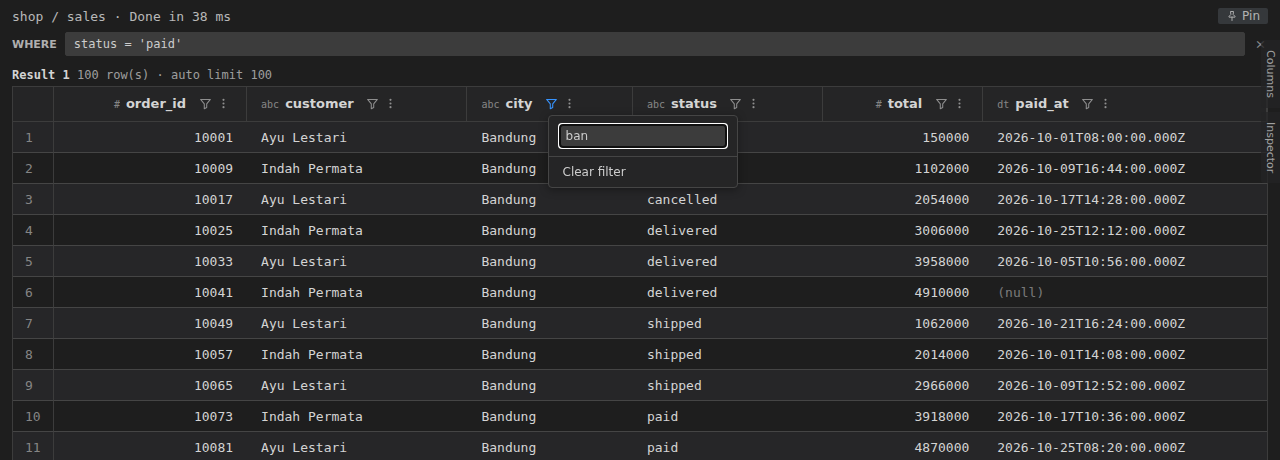
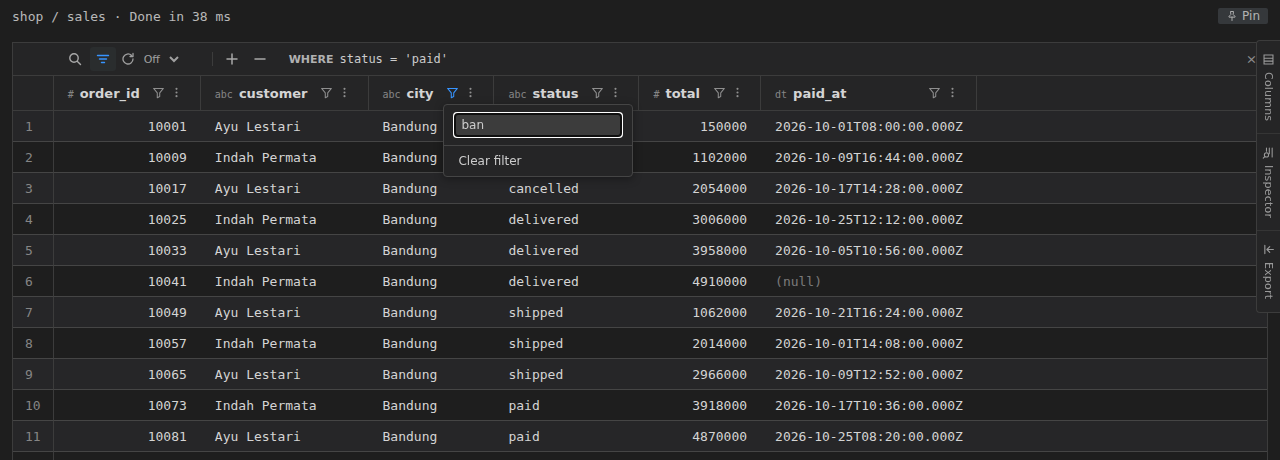
docs: update the README for 1.3.4 with the new result panel screenshots

diff --git a/scripts/screenshots.js b/scripts/screenshots.js
@@ -107,7 +107,7 @@ const PLAN_XML = `<ShowPlanXML><BatchSequence><Batch><Statements>
 
     // 3. export / copy
     p = await page(render('csp', 'shop / sales', { result: result([ordersSet]), source: { uri: 'file:///orders.sql', sql: SQL } }), { h: 760 });
-    await p.click('.xbtn');
+    await p.click('.sidetabs button[data-pane="exp"]');
     await shot(p, 'export.png');
 
     // 4. beberapa SELECT paralel, satu masih berjalan

diff --git a/README.id.md b/README.id.md
@@ -4,7 +4,7 @@
 
 Database client untuk VS Code: SQL Server, MySQL / MariaDB, PostgreSQL, SQLite dan MongoDB, plus Consul (KV store dan dashboard cluster). Tulis query di file `.sql`, jalankan dengan shortcut atau CodeLens, lalu lihat, filter, edit dan export hasilnya di grid.
 
-![Grid hasil dengan tag tipe kolom, baris terpilih, toolbar WHERE dan Load more](images/screenshots/results.png)
+![Grid hasil dengan toolbar ikon, tag tipe kolom, baris terpilih dan rail Columns / Inspector / Export](images/screenshots/results.png)
 
 ## Fitur
 
@@ -29,8 +29,11 @@ Database client untuk VS Code: SQL Server, MySQL / MariaDB, PostgreSQL, SQLite d
 - **Auto limit** untuk satu SELECT, lalu **Load more (+1000)** sampai 50.000 baris di grid.
 - **Mode transaksi manual** per file dengan lens **Commit** / **Rollback**; di SQL Server, MySQL / MariaDB dan PostgreSQL statusnya dibaca dari server dan `COMMIT` / `ROLLBACK` boleh ada di dalam script.
 - **Konfirmasi Auto-commit**: statement yang mengubah data di mode Auto-commit minta konfirmasi dulu (aktif secara default; bisa dimatikan per group atau koneksi).
-- **Grid hasil**: tag tipe kolom, toolbar WHERE yang menjalankan ulang query di server, filter / sort / hide per kolom pada baris yang sudah dimuat, urutan kolom bisa diubah, panel samping **Columns** / **Inspector**, pilih baris lalu Ctrl+C (tersalin sebagai TSV); hanya baris di sekitar area tampil yang digambar, jadi hasil besar tetap cepat. Hasil UPDATE / INSERT / DELETE menampilkan `n row(s) affected` di bawah judul **Statement n**, juga di samping hasil SELECT.
-- **Export** semua data atau baris terpilih ke CSV, TSV, JSON, JSON (pretty), Markdown, HTML atau Excel (.xlsx), atau salin ke clipboard.
+- **Grid hasil**: satu toolbar ikon per hasil (search, WHERE, Add row, Delete rows, Save, Generate script, Discard), tag tipe kolom, filter / sort / hide per kolom pada baris yang sudah dimuat, urutan kolom bisa diubah, navigasi keyboard (panah, Shift+panah, Esc membuang perubahan), dan panel samping **Columns** / **Inspector** / **Export** di rail kanan dengan pemilih hasil. Beberapa query dalam satu run mendapat section **Query** yang bisa dilipat (**Collapse all**). Hanya baris di sekitar area tampil yang digambar, jadi hasil besar tetap cepat. Hasil UPDATE / INSERT / DELETE menampilkan `n row(s) affected` di bawah judul **Statement n**, juga di samping hasil SELECT.
+- **Load all**: baca hasil sampai jutaan baris ke cache di disk (bukan memori); grid berpindah halaman dengan search, filter kolom, sort dan export dari cache.
+- **Popup nilai cell**: hover (atau double-click) cell untuk melihat nilai lengkap, JSON di-pretty-print, dengan **Copy value**. Ctrl+C menyalin baris terpilih (format: `moonageDaydream.grid.copyFormat`); klik judul kolom lalu Ctrl+C menyalin kolom itu sebagai array JSON.
+- **Auto refresh** untuk satu SELECT: Off, 5s, 10s, 30s, 1m atau 5m, dengan hitung mundur dan nomor refresh; senyap (tanpa entri History, kursor tetap di editor).
+- **Export** semua data atau baris terpilih ke CSV, TSV, JSON, JSON (pretty), Array of values, Markdown, HTML atau Excel (.xlsx), atau salin ke clipboard.
 - **Pin results** supaya hasil tetap di tab sendiri, berdampingan.
 - **Edit cell**: perubahan menghasilkan script UPDATE berdasarkan primary key di tab baru. Script tidak pernah dijalankan otomatis.
 - **Execution plan**: plan grafis dengan bar cost untuk SQL Server; output `EXPLAIN` sebagai grid untuk database lain.
@@ -40,21 +43,31 @@ Database client untuk VS Code: SQL Server, MySQL / MariaDB, PostgreSQL, SQLite d
 
 ## Yang Baru
 
+**1.3.4**
+
+- Diperbaiki: **Format SQL** tidak lagi merusak daftar `IN (...)` multi-baris (atau daftar SELECT panjang) saat leading comma aktif; tiap baris tetap punya komanya sendiri.
+
+**1.3.3**
+
+- Baru: tombol **Select** di baris CodeLens setiap statement memblok seluruh statement sampai `;` (double-click kembali memilih satu kata).
+- Baru: **seleksi kolom** di grid hasil: klik judul kolom untuk memilih kolom, Ctrl+C menyalin nilainya sebagai array JSON (juga **Copy column as array** di menu kolom dan format export **Array of values**).
+
+**1.3.1 - 1.3.2**
+
+- Baru: **Auto refresh** untuk satu SELECT (Off, 5s, 10s, 30s, 1m, 5m) dengan hitung mundur dan nomor refresh; senyap, tanpa entri History.
+- Diperbaiki: hasil tunggal mengisi tinggi panel.
+
+**1.3.0**
+
+- Baru: satu **toolbar ikon** per hasil (search, WHERE, Add row, Delete rows, Save, Generate script, Discard); section **Query** yang bisa dilipat dengan **Collapse all**; navigasi keyboard di grid (panah, Shift+panah, Esc membuang perubahan); panel **Columns / Inspector / Export** di rail kanan dengan pemilih hasil; panel hasil kosong dengan kartu pintasan.
+
+**1.2.1 - 1.2.6**
+
+- Baru: **Load all** untuk hasil jutaan baris (cache di disk dengan search, filter kolom, sort, paging dan export dari cache); **popup nilai cell** (hover atau double-click, JSON di-pretty-print, **Copy value**); indikator loading di webview; **Copy as script / JSON** dan **Open Table Columns** dari file SQL.
+
 **1.2.0**
 
-- Baru:
-  - **Find Object** (Ctrl+Alt+O): cari koneksi, database, table, view dan procedure dari semua koneksi lewat cache metadata lokal; **Update Metadata** dan **Clear Cache** di Command Palette.
-  - **Filter in Connections** (Ctrl+Alt+F): ikon corong pada koneksi, database atau folder hanya menampilkan nama yang cocok.
-  - **Open view**: semua tab SQL yang terbuka, tersimpan maupun belum, dengan Save All, Close All, pin dan urutan drag & drop.
-  - **SQL syntax check**: SELECT / INSERT / UPDATE / DELETE / WITH dicek offline dengan dialect koneksi (`moonageDaydream.lint.syntax`).
-  - **Running queries and history in the status bar**: quick pick untuk cancel, buka lagi, jalankan lagi atau salin; popup dengan Cancel selama query berjalan.
-  - **Group environment icons**: Production, UAT, Development dan Local Development, ditebak dari nama atau diatur lewat klik kanan.
-- Ditingkatkan:
-  - **Connection rows**: logo dengan titik berdenyut saat terhubung, jumlah koneksi terhubung per group, tooltip lebih lengkap, loading bar saat expand koneksi yang belum terhubung.
-  - **One preview tab**: klik tabel dan entri history memakai ulang satu tab SQL sampai tab itu diedit.
-  - **Faster large results**: grid hanya menggambar baris di sekitar area tampil.
-- Diperbaiki:
-  - **Slow or failed connections**: tidak lagi membekukan isi Connections lainnya atau tampil sebagai terhubung.
+- Baru: **Find Object**, **Filter in Connections**, **Open view**, cek sintaks SQL, query berjalan dan **History** di status bar, ikon environment group; baris koneksi didesain ulang; hasil besar lebih cepat.
 
 Sebelumnya: **1.1.0** notifikasi setelah Add Data / simpan grid; **1.0.0** UNIQUE / FOREIGN KEY multi-kolom, koneksi MongoDB replica set, Show Log pada error, export streaming, perbaikan `GO`.
 
@@ -164,6 +177,7 @@ Expand koneksi untuk melihat database, table, view, procedure dan kolom (koneksi
 Buka atau buat file `.sql`. CodeLens di atas setiap statement menampilkan **Execute**, **Explain**, **Analyze** (untuk SELECT), lalu koneksi, database dan mode transaksi file itu; klik koneksi atau database untuk menggantinya. Lalu:
 
 - **Ctrl+Alt+Enter** menjalankan selection, atau statement di posisi kursor. **Ctrl+Enter** melakukan hal yang sama bila extension DBCode tidak terpasang.
+- **Select** di baris CodeLens memblok seluruh statement (sampai `;`) di editor.
 - **Execute** pada lens menjalankan statement itu.
 - Saat query berjalan, muncul lens **Cancel**; query di-cancel di server. Query yang berjalan lebih dari 0,3 detik juga memunculkan popup berisi query, detik berjalan dan **Cancel**; popup tertutup saat query selesai.
 
@@ -185,19 +199,19 @@ Statement yang tidak mengembalikan baris (UPDATE, INSERT, DELETE, MERGE, `SELECT
 
 ### 3. Filter dan sort
 
-Ketik kondisi di kotak **WHERE** lalu tekan Enter: query dijalankan ulang di server dengan kondisi itu. Ikon filter di header kolom memfilter baris yang sudah dimuat berdasarkan teks; menu kolom untuk sort atau hide kolom. Urutan kolom dan tampil / sembunyi kolom diatur dengan drag dan centang di panel samping **Columns**.
+Buka baris filter dengan ikon **WHERE** di toolbar hasil (atau ikon search / Ctrl+F untuk Search Output), ketik kondisi lalu tekan Enter: query dijalankan ulang di server dengan kondisi itu. Ikon filter di header kolom memfilter baris yang sudah dimuat berdasarkan teks; menu kolom untuk sort, hide atau menyalin kolom (**Copy column as array**). Urutan kolom dan tampil / sembunyi kolom diatur dengan drag dan centang di panel samping **Columns**. Dengan **Load all**, search, filter dan sort bekerja pada seluruh hasil di cache.
 
 ![WHERE status = 'paid' ditambah filter kolom city](images/screenshots/filter.png)
 
-Klik baris untuk memilihnya (Ctrl / Shift untuk lebih dari satu baris); Ctrl+C menyalin pilihan sebagai TSV. Panel samping **Inspector** menampilkan semua kolom dari baris terpilih beserta tipenya; **Columns** menampilkan daftar kolom beserta tipenya.
+Klik baris untuk memilihnya (Ctrl / Shift untuk lebih dari satu baris, atau tombol panah); Ctrl+C menyalin pilihan (format default JSON pretty, lihat `moonageDaydream.grid.copyFormat`). Klik judul kolom untuk memilih seluruh kolom: Ctrl+C lalu menyalin nilainya sebagai array JSON. Hover atau double-click cell untuk melihat nilai lengkapnya. Panel samping **Inspector** menampilkan semua kolom dari baris terpilih beserta tipenya; **Columns** menampilkan daftar kolom beserta tipenya.
 
 ![Panel samping Inspector menampilkan satu baris dengan tipe kolom](images/screenshots/inspector.png)
 
 ### 4. Export
 
-Klik **Export**, pilih **All Data** atau selection dan format (Excel .xlsx, CSV, TSV, JSON, JSON pretty, Markdown, HTML), lalu **Save** ke file atau **Copy** ke clipboard.
+Buka panel samping **Export** (rail kanan), pilih **All Data** atau selection dan format (Excel .xlsx, CSV, TSV, JSON, JSON pretty, Array of values, Markdown, HTML), lalu **Save** ke file atau **Copy** ke clipboard. Dengan beberapa query dalam satu run, pemilih di atas panel menentukan hasil yang diekspor.
 
-![Popup Export dengan All Data dan Excel (.xlsx)](images/screenshots/export.png)
+![Panel samping Export dengan All Data dan Excel (.xlsx), di samping grid hasil](images/screenshots/export.png)
 
 **Pin** menyimpan hasil saat ini di tab sendiri supaya tidak tertimpa query berikutnya.
 
@@ -329,6 +343,9 @@ Koneksi read-only tidak bisa menyimpan atau menghapus key. Bila ACL token tidak 
 | `moonageDaydream.lint.semicolon` | `error` | Tandai statement tanpa `;`: `error`, `warning`, `off` |
 | `moonageDaydream.lint.syntax` | `warning` | Tandai kesalahan sintaks di SELECT / INSERT / UPDATE / DELETE / WITH (offline, dialect koneksi): `error`, `warning`, `off` |
 | `moonageDaydream.connection.idleDisconnectMinutes` | `0` | Disconnect koneksi yang tidak dipakai selama sekian menit (tanpa query berjalan, transaksi terbuka atau monitor). `0` = tidak pernah |
+| `moonageDaydream.grid.copyFormat` | `jsonPretty` | Format baris yang disalin dengan Ctrl+C di grid hasil: `jsonPretty`, `json`, `tsv`, `csv`, `markdown` |
+| `moonageDaydream.grid.maxCachedRows` | `5000000` | Load all: maksimum baris di cache hasil per hasil (paling banyak 5.000.000); bila tercapai query di-cancel dan hasil ditandai parsial |
+| `moonageDaydream.grid.cacheMemoryMB` | `100` | Load all: RAM per cache hasil dalam MB (paling banyak 100); sisanya ditulis ke `.moonage-cache` di folder workspace |
 
 Extension ini juga menjadikan dirinya formatter default untuk `[sql]`.
 
@@ -389,7 +406,7 @@ Extension ini juga menjadikan dirinya formatter default untuk `[sql]`.
 - SQLite: seluruh file database dibaca setiap query, dan query yang sedang berjalan tidak bisa di-cancel.
 - MongoDB: tidak ada transaksi manual dan tidak ada formatter.
 - Import connection string: URL `mongodb://` dengan beberapa host (replica set) belum didukung; pakai `mongodb+srv://` atau satu host.
-- Grid menampung maksimal 50.000 baris (Load more berhenti di situ); pakai Export untuk semua data.
+- Grid menampung maksimal 50.000 baris (Load more berhenti di situ); pakai **Load all** untuk sampai jutaan baris (edit nonaktif untuk hasil itu) atau Export untuk semua data.
 - SQLite tidak punya Analyze (hanya `EXPLAIN QUERY PLAN`).
 - Script as CREATE TABLE (SQL Server) tidak mencakup opsi partitioning, compression, filegroup, columnstore, temporal atau memory-optimized.
 - Live Monitor: MySQL / MariaDB tidak punya grafik CPU %; statistik PostgreSQL di-flush dengan jeda sekitar 1 detik; Expensive queries butuh `performance_schema` (MySQL / MariaDB) atau `pg_stat_statements` (PostgreSQL).

diff --git a/README.md b/README.md
@@ -4,7 +4,7 @@ English | [Bahasa Indonesia](README.id.md)
 
 A VS Code database client for SQL Server, MySQL / MariaDB, PostgreSQL, SQLite and MongoDB, plus Consul (KV store and cluster dashboard). Write queries in `.sql` files, run them with a shortcut or CodeLens, and view, filter, edit and export the results in a grid.
 
-![Results grid with column type tags, selected rows, WHERE toolbar and Load more](images/screenshots/results.png)
+![Results grid with the icon toolbar, column type tags, selected rows and the Columns / Inspector / Export rail](images/screenshots/results.png)
 
 ## Features
 
@@ -29,8 +29,11 @@ A VS Code database client for SQL Server, MySQL / MariaDB, PostgreSQL, SQLite an
 - **Auto limit** for a single SELECT, then **Load more (+1000)** up to 50,000 rows in the grid.
 - **Manual transaction mode** per file with **Commit** / **Rollback** lenses; on SQL Server, MySQL / MariaDB and PostgreSQL the state is read from the server and `COMMIT` / `ROLLBACK` may be part of the script.
 - **Auto-commit confirmation**: statements that change data in Auto-commit mode ask first (on by default; can be turned off per group or connection).
-- **Results grid**: column type tags, a WHERE toolbar that re-runs the query on the server, per-column filter / sort / hide on the loaded rows, column reorder, **Columns** / **Inspector** side panels, row selection with Ctrl+C (copied as TSV); only the rows near the viewport are drawn, so large results stay fast. UPDATE / INSERT / DELETE results show their `n row(s) affected` under a **Statement n** title, also next to SELECT results.
-- **Export** all data or the selected rows to CSV, TSV, JSON, JSON (pretty), Markdown, HTML or Excel (.xlsx), or copy to the clipboard.
+- **Results grid**: one icon toolbar per result (search, WHERE, Add row, Delete rows, Save, Generate script, Discard), column type tags, per-column filter / sort / hide on the loaded rows, column reorder, keyboard navigation (arrows, Shift+arrows, Esc discards changes), and **Columns** / **Inspector** / **Export** side panels on the right rail with a result picker. Several queries in one run get collapsible **Query** sections (**Collapse all**). Only the rows near the viewport are drawn, so large results stay fast. UPDATE / INSERT / DELETE results show their `n row(s) affected` under a **Statement n** title, also next to SELECT results.
+- **Load all**: read a result of up to millions of rows into a cache on disk (not memory); the grid pages through it with search, column filters, sort and export from the cache.
+- **Cell value popup**: hover (or double-click) a cell for the whole value, JSON pretty-printed, with **Copy value**. Ctrl+C copies the selected rows (format: `moonageDaydream.grid.copyFormat`); click a column title and Ctrl+C copies that column as a JSON array.
+- **Auto refresh** for a single SELECT: Off, 5s, 10s, 30s, 1m or 5m, with a countdown and refresh number; quiet (no History entry, the cursor stays in your editor).
+- **Export** all data or the selected rows to CSV, TSV, JSON, JSON (pretty), Array of values, Markdown, HTML or Excel (.xlsx), or copy to the clipboard.
 - **Pin results** to keep them in their own tab, side by side.
 - **Edit cells**: edits generate an UPDATE script by primary key in a new tab. The script is never executed automatically.
 - **Execution plans**: graphical plan with cost bars for SQL Server; the `EXPLAIN` output as a grid for the other databases.
@@ -40,21 +43,31 @@ A VS Code database client for SQL Server, MySQL / MariaDB, PostgreSQL, SQLite an
 
 ## What's New
 
+**1.3.4**
+
+- Fixed: **Format SQL** no longer breaks a multi-line `IN (...)` list (or a long SELECT list) when leading commas are on; every line keeps its own comma.
+
+**1.3.3**
+
+- New: **Select** button in the CodeLens row above every statement selects the whole statement up to its `;` (double-click selects a single word again).
+- New: **column selection** in the result grid: click a column title to select the column, Ctrl+C copies its values as a JSON array (also **Copy column as array** in the column menu and the **Array of values** export format).
+
+**1.3.1 - 1.3.2**
+
+- New: **Auto refresh** for a single SELECT (Off, 5s, 10s, 30s, 1m, 5m) with a countdown and a refresh number; quiet, no History entry.
+- Fixed: a single result fills the height of the panel.
+
+**1.3.0**
+
+- New: one **icon toolbar** per result (search, WHERE, Add row, Delete rows, Save, Generate script, Discard); collapsible **Query** sections with **Collapse all**; keyboard in the grid (arrows, Shift+arrows, Esc discards); **Columns / Inspector / Export** panels on the right rail with a result picker; an empty results panel with shortcut cards.
+
+**1.2.1 - 1.2.6**
+
+- New: **Load all** for results of millions of rows (disk cache with search, column filters, sort, paging and export from the cache); **cell value popup** (hover or double-click, JSON pretty-printed, **Copy value**); loading indicators in the webviews; **Copy as script / JSON** and **Open Table Columns** from a SQL file.
+
 **1.2.0**
 
-- New:
-  - **Find Object** (Ctrl+Alt+O): search connections, databases, tables, views and procedures of every connection from a local metadata cache; **Update Metadata** and **Clear Cache** in the Command Palette.
-  - **Filter in Connections** (Ctrl+Alt+F): the funnel on a connection, database or folder shows only matching names.
-  - **Open view**: every open SQL tab, saved or not, with Save All, Close All, pin and drag & drop order.
-  - **SQL syntax check**: SELECT / INSERT / UPDATE / DELETE / WITH checked offline with the connection's dialect (`moonageDaydream.lint.syntax`).
-  - **Running queries and history in the status bar**: quick picks to cancel, reopen, run again or copy; a popup with Cancel while a query runs.
-  - **Group environment icons**: Production, UAT, Development and Local Development, guessed from the name or set by right-click.
-- Improved:
-  - **Connection rows**: logo with a pulsing dot while connected, connected count per group, richer tooltip, loading bar when expanding a disconnected connection.
-  - **One preview tab**: table clicks and history entries reuse one SQL tab until you edit it.
-  - **Faster large results**: the grid draws only the rows near the viewport.
-- Fixed:
-  - **Slow or failed connections**: no longer freeze the rest of Connections or show as connected.
+- New: **Find Object**, **Filter in Connections**, **Open view**, SQL syntax check, running queries and **History** in the status bar, group environment icons; connection rows redesigned; faster large results.
 
 Earlier: **1.1.0** confirmation after Add Data / grid save; **1.0.0** multi-column UNIQUE / FOREIGN KEY, MongoDB replica set connections, Show Log on errors, streaming export, `GO` fixes.
 
@@ -164,6 +177,7 @@ Expand a connection to browse databases, tables, views, procedures and columns (
 Open or create a `.sql` file. The CodeLens above every statement shows **Execute**, **Explain**, **Analyze** (for SELECT), then the connection, the database and the transaction mode of the file; click the connection or database to change it. Then:
 
 - **Ctrl+Alt+Enter** runs the selection, or the statement under the cursor. **Ctrl+Enter** does the same when the DBCode extension is not installed.
+- **Select** in the CodeLens row selects the whole statement (up to its `;`) in the editor.
 - **Execute** on a lens runs that statement.
 - While a query runs, a **Cancel** lens appears; the query is cancelled on the server. A query that takes longer than 0.3 s also shows a popup with the query, the elapsed seconds and **Cancel**; it closes when the query finishes.
 
@@ -185,19 +199,19 @@ Statements that do not return rows (UPDATE, INSERT, DELETE, MERGE, `SELECT ... I
 
 ### 3. Filter and sort
 
-Type a condition in the **WHERE** box and press Enter: the query runs again on the server with that condition. The filter icon in a column header filters the loaded rows by text; the column menu sorts or hides the column. Reorder and show / hide columns by dragging and ticking them in the **Columns** side panel.
+Open the filter row with the **WHERE** icon in the result toolbar (or the search icon / Ctrl+F for Search Output), type a condition and press Enter: the query runs again on the server with that condition. The filter icon in a column header filters the loaded rows by text; the column menu sorts, hides or copies the column (**Copy column as array**). Reorder and show / hide columns by dragging and ticking them in the **Columns** side panel. With **Load all** the search, filters and sort work on the whole cached result.
 
 ![WHERE status = 'paid' plus a column filter on city](images/screenshots/filter.png)
 
-Click a row to select it (Ctrl / Shift for more rows); Ctrl+C copies the selection as TSV. The **Inspector** side panel shows every column of the selected row with its type; **Columns** lists the columns with their types.
+Click a row to select it (Ctrl / Shift for more rows, or the arrow keys); Ctrl+C copies the selection (default format JSON pretty, see `moonageDaydream.grid.copyFormat`). Click a column title to select the whole column: Ctrl+C then copies its values as a JSON array. Hover or double-click a cell to see its whole value. The **Inspector** side panel shows every column of the selected row with its type; **Columns** lists the columns with their types.
 
 ![Inspector side panel showing one row with column types](images/screenshots/inspector.png)
 
 ### 4. Export
 
-Click **Export**, choose **All Data** or the selection and a format (Excel .xlsx, CSV, TSV, JSON, JSON pretty, Markdown, HTML), then **Save** to a file or **Copy** to the clipboard.
+Open the **Export** side panel (right rail), pick **All Data** or the selection and a format (Excel .xlsx, CSV, TSV, JSON, JSON pretty, Array of values, Markdown, HTML), then **Save** to a file or **Copy** to the clipboard. With several queries in one run, the picker at the top of the panel chooses the result.
 
-![Export popup with All Data and Excel (.xlsx)](images/screenshots/export.png)
+![Export side panel with All Data and Excel (.xlsx), next to the result grid](images/screenshots/export.png)
 
 **Pin** keeps the current results in their own tab so the next query does not replace them.
 
@@ -329,6 +343,9 @@ Read-only connections cannot save or delete keys. When the ACL token lacks a per
 | `moonageDaydream.lint.semicolon` | `error` | Mark statements not terminated with `;`: `error`, `warning`, `off` |
 | `moonageDaydream.lint.syntax` | `warning` | Mark syntax errors in SELECT / INSERT / UPDATE / DELETE / WITH (offline, dialect of the connection): `error`, `warning`, `off` |
 | `moonageDaydream.connection.idleDisconnectMinutes` | `0` | Disconnect a connection after it has not been used for this many minutes (no running query, open transaction or monitor). `0` = never |
+| `moonageDaydream.grid.copyFormat` | `jsonPretty` | Format of the rows copied with Ctrl+C in the result grid: `jsonPretty`, `json`, `tsv`, `csv`, `markdown` |
+| `moonageDaydream.grid.maxCachedRows` | `5000000` | Load all: maximum rows kept in the result cache per result (at most 5,000,000); when reached the query is cancelled and the result is marked partial |
+| `moonageDaydream.grid.cacheMemoryMB` | `100` | Load all: RAM per result cache in MB (at most 100); the rest goes to `.moonage-cache` in the workspace folder |
 
 The extension also sets itself as the default formatter for `[sql]`.
 
@@ -389,7 +406,7 @@ The extension also sets itself as the default formatter for `[sql]`.
 - SQLite: the whole database file is read for each query, and a running query cannot be cancelled.
 - MongoDB: no manual transactions and no formatter.
 - Import connection string: a `mongodb://` URL with several hosts (replica set) is not supported; use `mongodb+srv://` or one host.
-- The grid holds at most 50,000 rows (Load more stops there); use Export for all data.
+- The grid holds at most 50,000 rows (Load more stops there); use **Load all** for up to millions of rows (edit is off for that result) or Export for all data.
 - SQLite has no Analyze (only `EXPLAIN QUERY PLAN`).
 - Script as CREATE TABLE (SQL Server) has no partitioning, compression, filegroups, columnstore, temporal or memory-optimized options.
 - Live Monitor: MySQL / MariaDB has no CPU % chart; PostgreSQL statistics are flushed with about 1 s delay; Expensive queries need `performance_schema` (MySQL / MariaDB) or `pg_stat_statements` (PostgreSQL).
